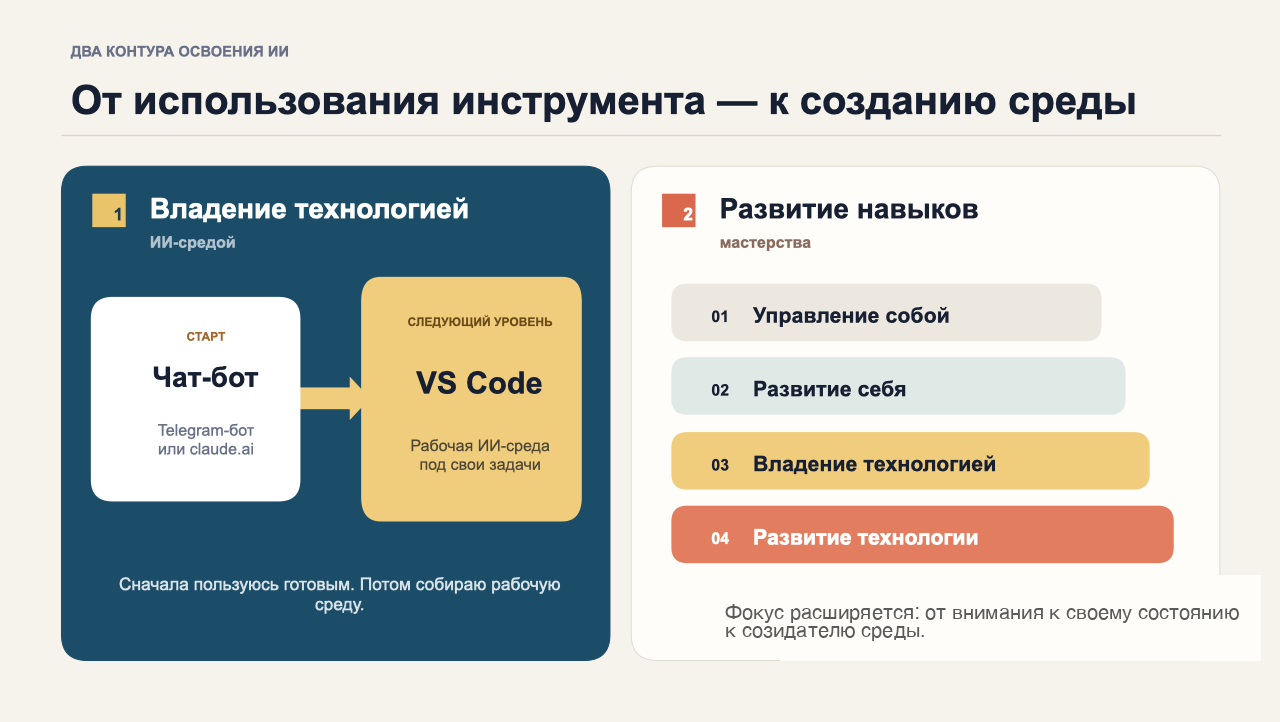
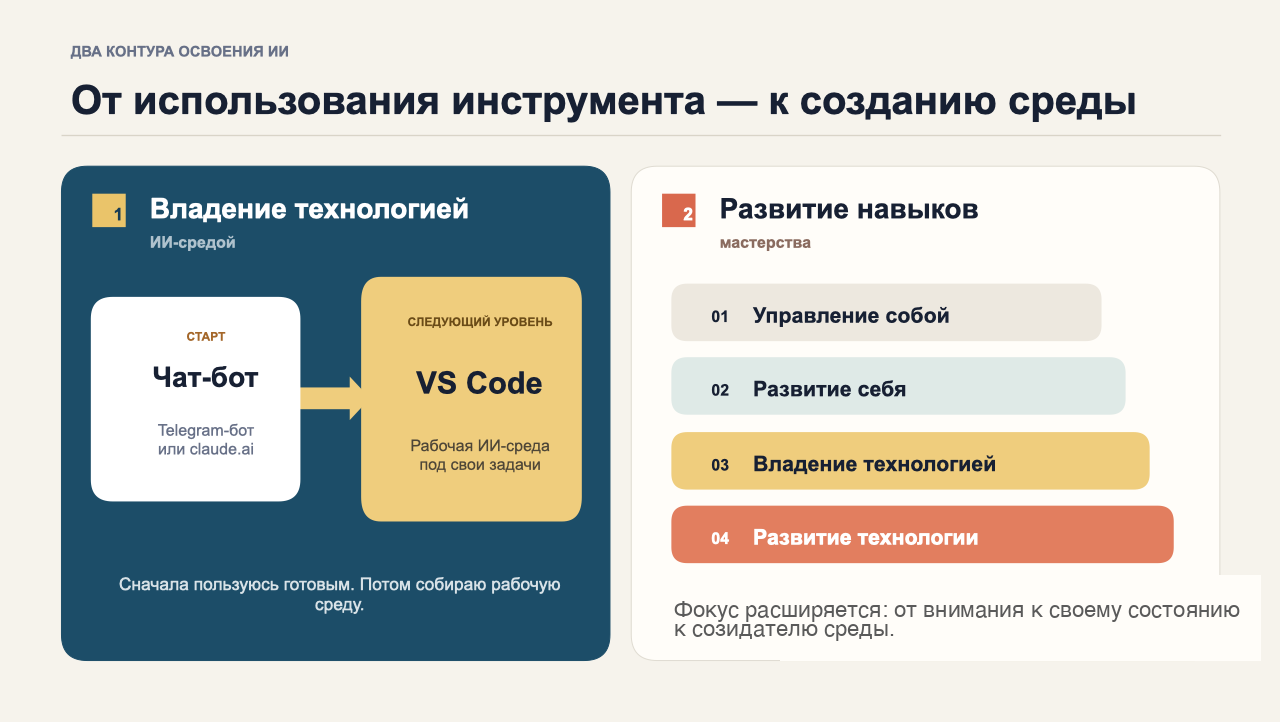
feat: enlarge slide 10 image and in-image text

Changed region(s): [[0.5312, 0.8227, 0.9688, 0.8837]]

diff --git a/A.Systems-Builder/A1.Teams-and-Communities/A1.1.Meaning/1.1.6. Seminars/2026.08.23 Первый запуск личной ИИ-среды/05-presentation-marp.md b/A.Systems-Builder/A1.Teams-and-Communities/A1.1.Meaning/1.1.6. Seminars/2026.08.23 Первый запуск личной ИИ-среды/05-presentation-marp.md
@@ -206,7 +206,7 @@ li { margin-bottom: 0.12em; }
 
 # Два контура освоения ИИ-среды
 
-![h:500](ai-mastery-v2.png)
+![w:1100](ai-mastery-v2.png)
 
 ---
 
